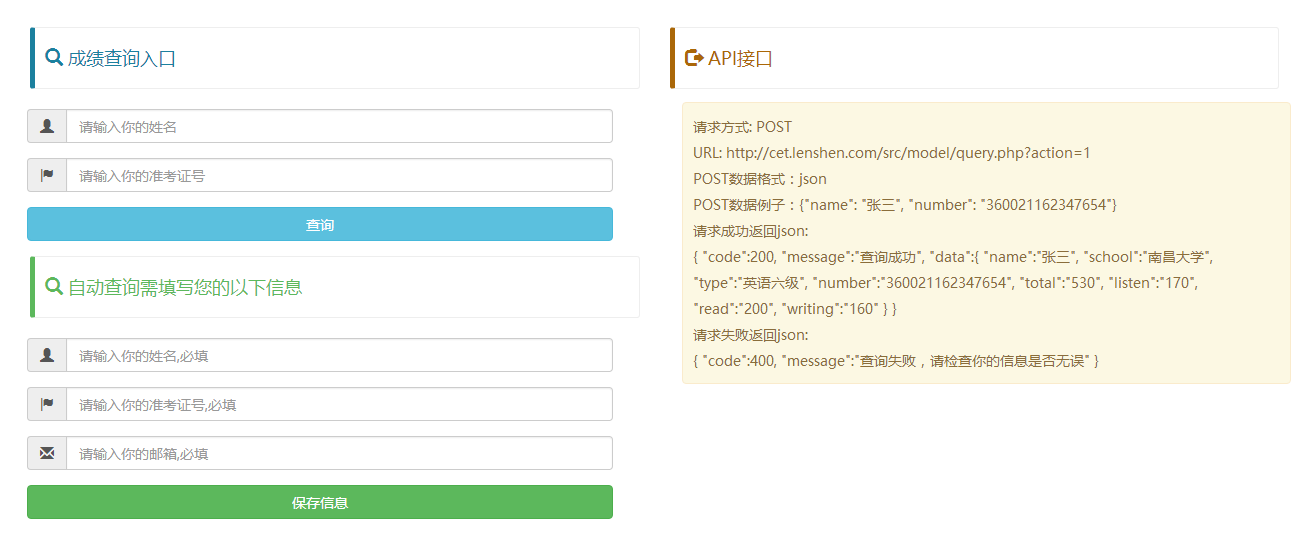
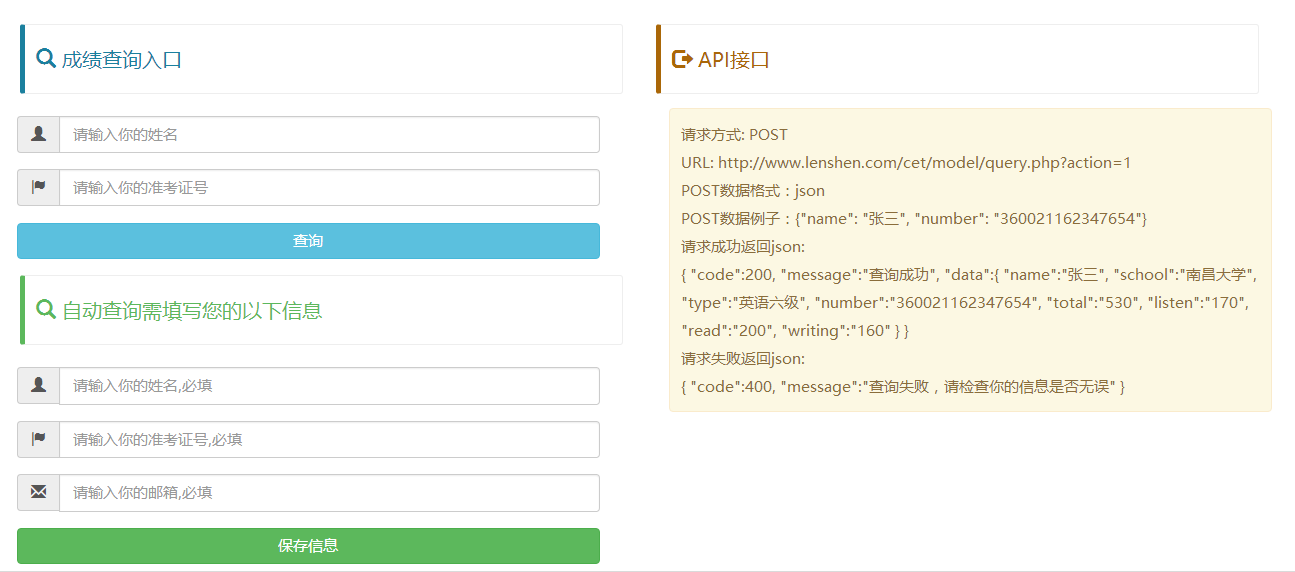
修改

Changed region(s): [[0.0, 0.0295, 1.0, 0.738], [0.0, 0.6199, 0.4942, 1.0], [0.0, 0.0295, 0.1544, 0.1771]]

diff --git a/src/index.html b/src/index.html
@@ -107,7 +107,7 @@
                     </div>
                     <p class="alert alert-warning api">
                         请求方式: POST<br/>
-                        URL: http://cet.lenshen.com/src/model/query.php?action=1<br/>
+                        URL: http://www.lenshen.com/cet/model/query.php?action=1<br/>
                         POST数据格式：json<br/>
                         POST数据例子：{"name": "张三", "number": "360021162347654"}<br/>
                         请求成功返回json:<br/>

diff --git a/src/model/AutoSendEmail.class.php b/src/model/AutoSendEmail.class.php
@@ -12,8 +12,10 @@ class AutoSendEmail {
 	 * 构造方法，连接mysql
 	 */
 	public function __construct(){
-		$this->mysql=new Mysql($GLOBALS['config']['DB_HOST'],$GLOBALS['config']['DB_USER'],
+		$GLOBALS['config']=require_once('../config/config.php');
+		$this->mysql=new Mysqli($GLOBALS['config']['DB_HOST'],$GLOBALS['config']['DB_USER'],
 			$GLOBALS['config']['DB_PASS'],$GLOBALS['config']['DB_NAME']);
+		$this->mysql->query("set names 'utf8'");
 	}
 
 	/**
@@ -76,13 +78,43 @@ class AutoSendEmail {
 			<p style="font-family: '微软雅黑';line-height: 25px">阅读:<span style="color: green;padding-left: 5px">$read</span></p>  
 			<p style="font-family: '微软雅黑';line-height: 25px">写作和翻译:<span style="color: green;padding-left: 5px">$writing</span></p>
 HTML;
-			//发送邮件
-	  		$this->sendEmail($v['email'], '四六级成绩结果通知',$content);
-
 	  		//更新状态
 	  		$this->update($v['id']);
+	  		//发送邮件
+	  		$this->sendEmail($v['email'], '四六级成绩结果通知',$content);
 		}
 
+	}
+
+	/**
+	 * 发送一封邮件
+	 * @return [type] [description]
+	 */
+	public function sendOne($v){
+		$cet=new Cet();
+		$res=$cet->getScoreByNumber(array('zkzh'=>$v['number'],'xm'=>$v['name']));
+		$arr=json_decode($res,1);
+
+		extract($arr['data']);
+		
+		$content =<<<HTML
+		<p style="font-size: 18px;font-family: '微软雅黑';">
+		四六级官网已公布成绩,您的CET成绩如下:</p><br/>
+		<p style="font-family: '微软雅黑';line-height: 25px">姓名:
+			<span style="color:red;font-weight: bolder;">$name</span>
+		</p> 
+		<p style="font-family: '微软雅黑';line-height: 25px">学校:<span style="color: green;padding-left: 5px">$school</span></p>
+		<p style="font-family: '微软雅黑';line-height: 25px">考试类别:<span style="color: green;padding-left: 5px">$type</span></p>  
+		<p style="font-family: '微软雅黑';line-height: 25px">准考证号:<span style="color: green;padding-left: 5px">$number</span></p>                 
+		<p style="font-family: '微软雅黑';line-height: 25px">总分:<span style="color: green;padding-left: 5px">$total</span></p>    
+		<p style="font-family: '微软雅黑';line-height: 25px">听力:<span style="color: green;padding-left: 5px">$listen</span></p>  
+		<p style="font-family: '微软雅黑';line-height: 25px">阅读:<span style="color: green;padding-left: 5px">$read</span></p>  
+		<p style="font-family: '微软雅黑';line-height: 25px">写作和翻译:<span style="color: green;padding-left: 5px">$writing</span></p>
+HTML;
+  		//更新状态
+  		$this->update($v['id']);
+  		//发送邮件
+  		$this->sendEmail($v['email'], '四六级成绩结果通知',$content);
 	}
 
 	/**
@@ -90,8 +122,9 @@ HTML;
 	 * @return array
 	 */
 	private function getData(){
- 		$data=$this->mysql->select('user','*','status=0');
- 		return $data;
+		$sql="select * from user where status=0 ";
+ 		$data=$this->mysql->query($sql);
+ 		return $this->toArray($data);
 	}
 
 	/**
@@ -100,6 +133,18 @@ HTML;
 	 * @return void
 	 */
 	private function update($id){
-		$bool=$this->mysql->update('user',array('status'=>1),$id);
+		$sql="update user set status=1 where id='$id'";
+		$this->mysql->query($sql);
+	}
+
+	/**
+	 * 将结果集转化成二维数组
+	 */
+	private function toArray($res){
+		$arr=array();
+		while ($row=$res->fetch_assoc()) {
+			$arr[]=$row;
+		}
+		return $arr;
 	}
 }

diff --git a/src/model/Cet.class.php b/src/model/Cet.class.php
@@ -71,32 +71,55 @@ class Cet{
 	public function addUserInfo($data){
 		extract($data);
 
-		$mysql=new Mysql($GLOBALS['config']['DB_HOST'],$GLOBALS['config']['DB_USER'],
+		$mysqli=new Mysqli($GLOBALS['config']['DB_HOST'],$GLOBALS['config']['DB_USER'],
 			$GLOBALS['config']['DB_PASS'],$GLOBALS['config']['DB_NAME']);
-		
-		$res=$mysql->findOne("user","id"," name= '$xm' and number='$zkzh'");
-
-		if($res){
+		$mysqli->query("set names 'utf8'");
+		$res=$mysqli->query("select id from user where name='{$xm}' and 
+			number='{$zkzh}' limit 1 ");
+		if($res->num_rows==1){
 		    return json_encode(array(
 				"code"=>400,
 				"message"=>"您已成功注册过,不能重复注册"
-			));
-		}else{
-			$bool=$mysql->insert('user',array('name'=>$xm,'number'=>$zkzh,
-				'email'=>$email,'time'=>time()
-			));
-			if($bool){
+			));		
+		}
+
+		$time=time();
+		$bool=$mysqli->query("insert into user (name,number,email,time) 
+			values('$xm','$zkzh','$email','$time')");
+		if($bool){
+			//如果是四六级成绩已经出来了，则直接发送
+			if($this->checkmonth()){
+				$res=$mysqli->query("select * from user where name='{$xm}' and 
+			number='{$zkzh}' limit 1 ");
+				$arr=array();
+				while ($row=$res->fetch_assoc()) {
+					$arr[]=$row;
+				}
 				return json_encode(array(
 					"code"=>200,
-					"message"=>"保存成功,四六级成绩出来后会发送成绩到您的邮箱"
-				));
-			}else{
-				return json_encode(array(
-					"code"=>500,
-					"message"=>"服务器内部错误,保存失败"
-				));	
+					"message"=>"保存成功,稍后会发送成绩到您的邮箱",
+					"data"=>$arr
+				));		
 			}
+			return json_encode(array(
+					"code"=>200,
+					"message"=>"保存成功,四六级成绩出来后会发送成绩到您的邮箱"
+			));
 		}
+
+		return json_encode(array(
+			"code"=>500,
+			"message"=>"服务器内部错误,保存失败"
+		));	
+	}
+    
+    /**
+     * 检验当前的月份
+     * @return [type] [description]
+     */
+	private function checkmonth(){
+		$arr=array(3,4,5,9,10,11);
+		return in_array(date('m',time()),$arr);
 	}
 }
 

diff --git a/src/model/query.php b/src/model/query.php
@@ -1,11 +1,10 @@
 <?php
 //后台入口文件
 
-function __autoload($className){
-	require __DIR__.'\\'.$className.'.class.php';
-}
-
-
+//使用__autoload放到服务器上可能会报错，我们还是建议使用require导入
+require './AutoSendEmail.class.php';
+require './Cet.class.php';
+require './Curl.class.php';
 //如果有提交信息
 if(!empty($_POST)){
 
@@ -14,7 +13,7 @@ if(!empty($_POST)){
 
 	//先进行安全过滤
 	$_POST=array_map('addslashes',$_POST);  // 防sql注入
-	$_POST=array_map('mysql_real_escape_string',$_POST);   //防xss攻击
+	//$_POST=array_map('mysql_real_escape_string',$_POST); //防xss攻击，如果服务器不支持mysql，则这句应删除
 
 	if(empty($_GET['action'])) return;
 
@@ -40,7 +39,13 @@ if(!empty($_POST)){
 		);
 
 		$cet= new Cet();
-		echo $cet->addUserInfo($data);
+		$info=$cet->addUserInfo($data);
+		echo $info;
+		$arr=json_decode($info,true);
+		if($arr['code']==200){
+			$AutoCet=new AutoSendEmail();
+	    	$AutoCet->sendOne($arr['data'][0]);		
+		}
 	}
 }
 

diff --git a/README.md b/README.md
@@ -65,8 +65,6 @@ status=0的记录，找到后再去学信网抓取成绩，最后将成绩以邮
 
 >>> Curl.class.php     -----  Curl操作类，模拟请求
 
->>> Mysql.class.php     -----  Mysql操作类
-
 >>> query.php     -----  后台入口文件
 
 >>  PHPMailer		-----  第三方邮件发送包目录
@@ -109,7 +107,7 @@ status=0的记录，找到后再去学信网抓取成绩，最后将成绩以邮
 
 ```
 请求方式: POST
-URL: http://cet.lenshen.com/src/model/query.php?action=1
+URL: http://www.lenshen.com/cet/model/query.php?action=1
 POST数据格式：json
 POST数据例子：{"name": "张三", "number": "360021162347654"}
 请求成功返回json:
@@ -141,5 +139,6 @@ POST数据例子：{"name": "张三", "number": "360021162347654"}
   ![](https://github.com/lensh/Cet/blob/master/src/assets/img/cet3.png)
 
 # FAQ
- 官网:http://cet.lenshen.com
+ 官网:http://www.lenshen.com/cet  (可能会很慢，因为服务器带宽很低)
+
  若使用的过程中遇到问题，可以加官方群交流：611212696
